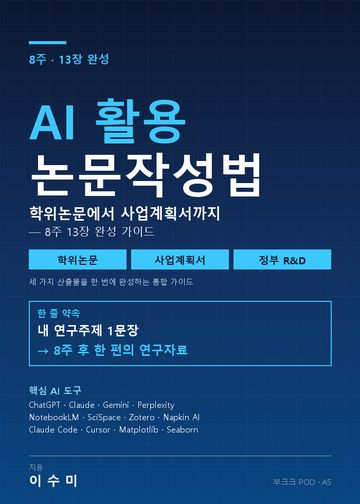
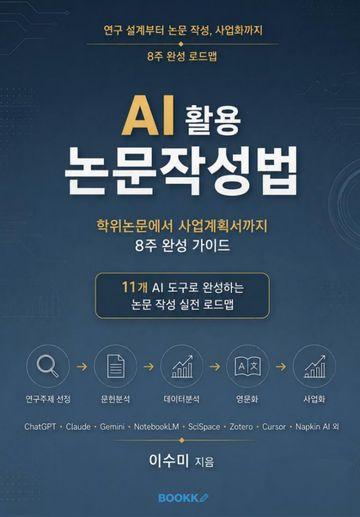
표지 교체(논문작성법·라우팅 출간본) + 첫걸음 시리즈 그룹화, 표 줄맞춤, 언리얼 추가

diff --git a/README.md b/README.md
@@ -11,30 +11,33 @@ AI specialist working across LLM applications, AI-blockchain convergence, comput
 
 부크크(Bookk)에서 출간한 인공지능 입문서와 교재.
 
-### 출간 (Published)
+### 첫걸음 시리즈 (First Steps Series)
 
 <table>
   <tr>
-    <td align="center" width="25%">
-      <img src="assets/covers/01_genai.jpg" width="170" alt="생성형AI 활용 첫걸음"><br>
-      <b>생성형AI 활용 첫걸음</b><br>
-      개발자를 위한 입문서
-    </td>
-    <td align="center" width="25%">
-      <img src="assets/covers/02_gameai.jpg" width="170" alt="게임인공지능 첫걸음"><br>
-      <b>게임인공지능 첫걸음</b><br>
-      게임 엔지니어를 위한 입문서
-    </td>
-    <td align="center" width="25%">
-      <img src="assets/covers/03_paper.jpg" width="170" alt="AI 활용 논문작성법"><br>
-      <b>AI 활용 논문작성법</b><br>
-      학위논문에서 사업계획서까지
-    </td>
-    <td align="center" width="25%">
-      <img src="assets/covers/04_routing.jpg" width="170" alt="라우팅&스위칭 첫걸음"><br>
-      <b>라우팅&스위칭 첫걸음</b><br>
-      데이터센터 엔지니어를 위한 입문서
-    </td>
+    <td align="center" width="33%"><img src="assets/covers/01_genai.jpg" width="180" alt="생성형AI 활용 첫걸음"></td>
+    <td align="center" width="33%"><img src="assets/covers/02_gameai.jpg" width="180" alt="게임인공지능 첫걸음"></td>
+    <td align="center" width="33%"><img src="assets/covers/04_routing.jpg" width="180" alt="라우팅&스위칭 첫걸음"></td>
+  </tr>
+  <tr>
+    <td align="center"><b>생성형AI 활용 첫걸음</b><br>개발자를 위한 입문서</td>
+    <td align="center"><b>게임인공지능 첫걸음</b><br>게임 엔지니어를 위한 입문서</td>
+    <td align="center"><b>라우팅&스위칭 첫걸음</b><br>데이터센터 엔지니어를 위한 입문서</td>
+  </tr>
+</table>
+
+### 단행본 (Other Title)
+
+<table>
+  <tr>
+    <td align="center" width="33%"><img src="assets/covers/03_paper.jpg" width="180" alt="AI 활용 논문작성법"></td>
+    <td width="33%"></td>
+    <td width="33%"></td>
+  </tr>
+  <tr>
+    <td align="center"><b>AI 활용 논문작성법</b><br>학위논문에서 사업계획서까지</td>
+    <td></td>
+    <td></td>
   </tr>
 </table>
 
@@ -42,22 +45,14 @@ AI specialist working across LLM applications, AI-blockchain convergence, comput
 
 <table>
   <tr>
-    <td align="center" width="25%">
-      <img src="assets/covers/05_vibe.jpg" width="170" alt="VIBE CODING"><br>
-      <b>VIBE CODING</b><br>
-      프롬프트에서 하네스까지
-    </td>
-    <td align="center" width="25%">
-      <img src="assets/covers/06_llm.jpg" width="170" alt="LLM 애플리케이션 입문"><br>
-      <b>LLM 애플리케이션 입문</b><br>
-      RAG에서 멀티에이전트까지
-    </td>
-    <td align="center" width="25%">
-      <img src="assets/covers/07_block.jpg" width="170" alt="BLOCKCHAIN"><br>
-      <b>BLOCKCHAIN</b><br>
-      비트코인에서 AI 에이전트까지
-    </td>
-    <td align="center" width="25%"></td>
+    <td align="center" width="33%"><img src="assets/covers/05_vibe.jpg" width="180" alt="VIBE CODING"></td>
+    <td align="center" width="33%"><img src="assets/covers/06_llm.jpg" width="180" alt="LLM 애플리케이션 입문"></td>
+    <td align="center" width="33%"><img src="assets/covers/07_block.jpg" width="180" alt="BLOCKCHAIN"></td>
+  </tr>
+  <tr>
+    <td align="center"><b>VIBE CODING</b><br>프롬프트에서 하네스까지</td>
+    <td align="center"><b>LLM 애플리케이션 입문</b><br>RAG에서 멀티에이전트까지</td>
+    <td align="center"><b>BLOCKCHAIN</b><br>비트코인에서 AI 에이전트까지</td>
   </tr>
 </table>
 
@@ -98,6 +93,7 @@ AI specialist working across LLM applications, AI-blockchain convergence, comput
 ![pandas](https://img.shields.io/badge/pandas-150458?style=flat-square&logo=pandas&logoColor=white)
 ![Streamlit](https://img.shields.io/badge/Streamlit-FF4B4B?style=flat-square&logo=streamlit&logoColor=white)
 ![Unity](https://img.shields.io/badge/Unity-000000?style=flat-square&logo=unity&logoColor=white)
+![Unreal Engine](https://img.shields.io/badge/Unreal%20Engine-0E1128?style=flat-square&logo=unrealengine&logoColor=white)
 ![Git](https://img.shields.io/badge/Git-F05032?style=flat-square&logo=git&logoColor=white)
 
 ---
